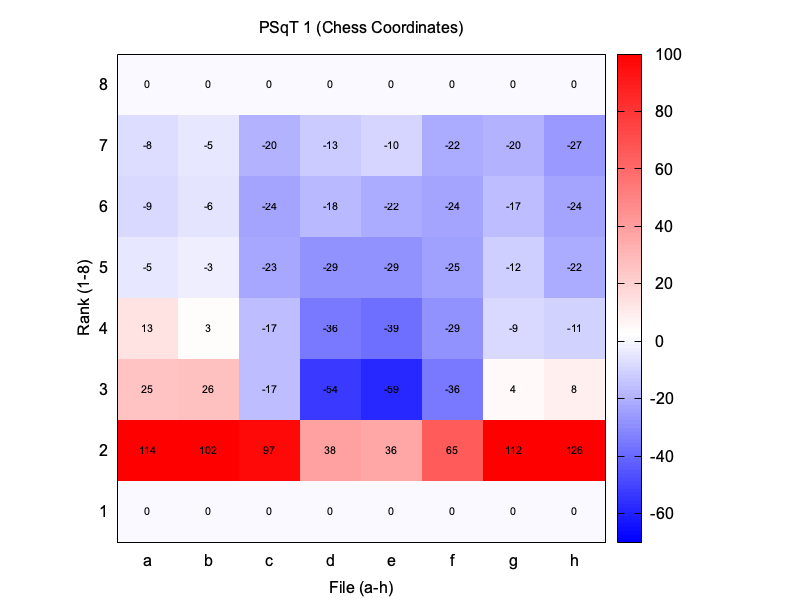
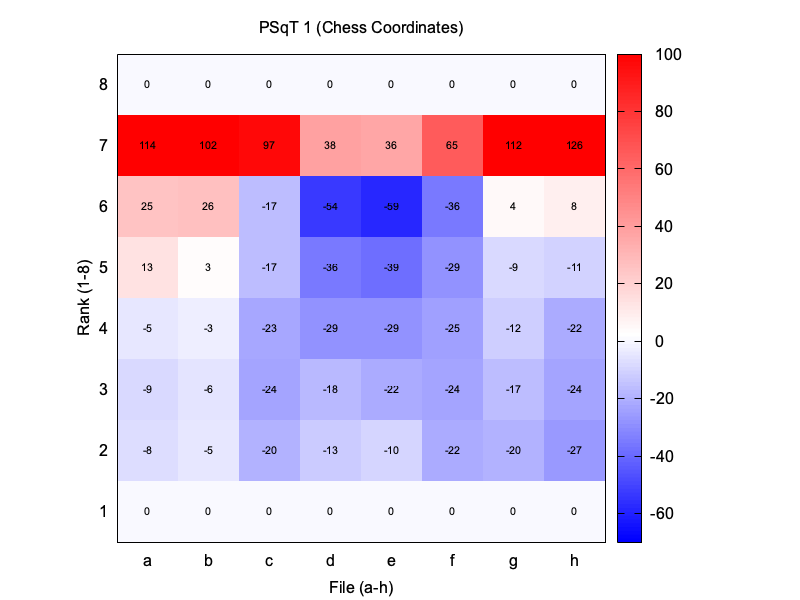
docsfix
bench 9091388

diff --git a/docs/eval/plots.go b/docs/eval/plots.go
@@ -179,7 +179,7 @@ func generateChessboardPlot(field reflect.Value, title, outputFile string) {
 		for j := range 8 {
 			// Chessboards are stored with a1 in the first position, but we want to display
 			// with rank 1 at the bottom, so we reverse the rows
-			idx := (7-i)*8 + j
+			idx := i*8 + j
 			val := field.Index(idx).Interface().(Score)
 			buf.WriteString(fmt.Sprintf("%d ", val))
 		}
